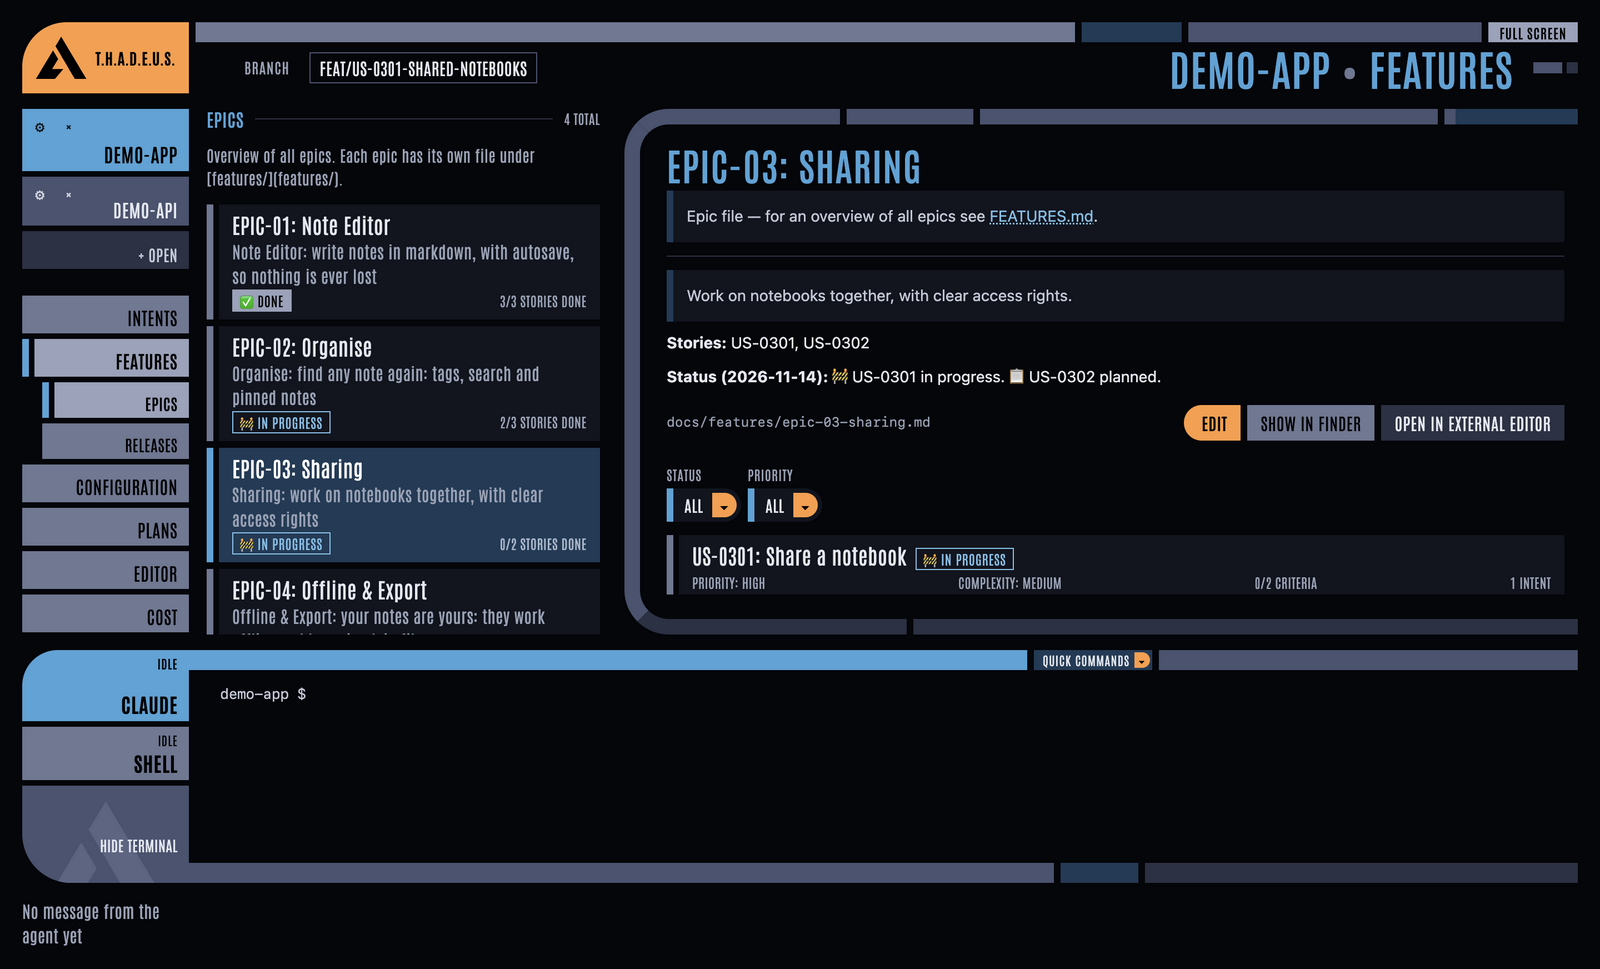
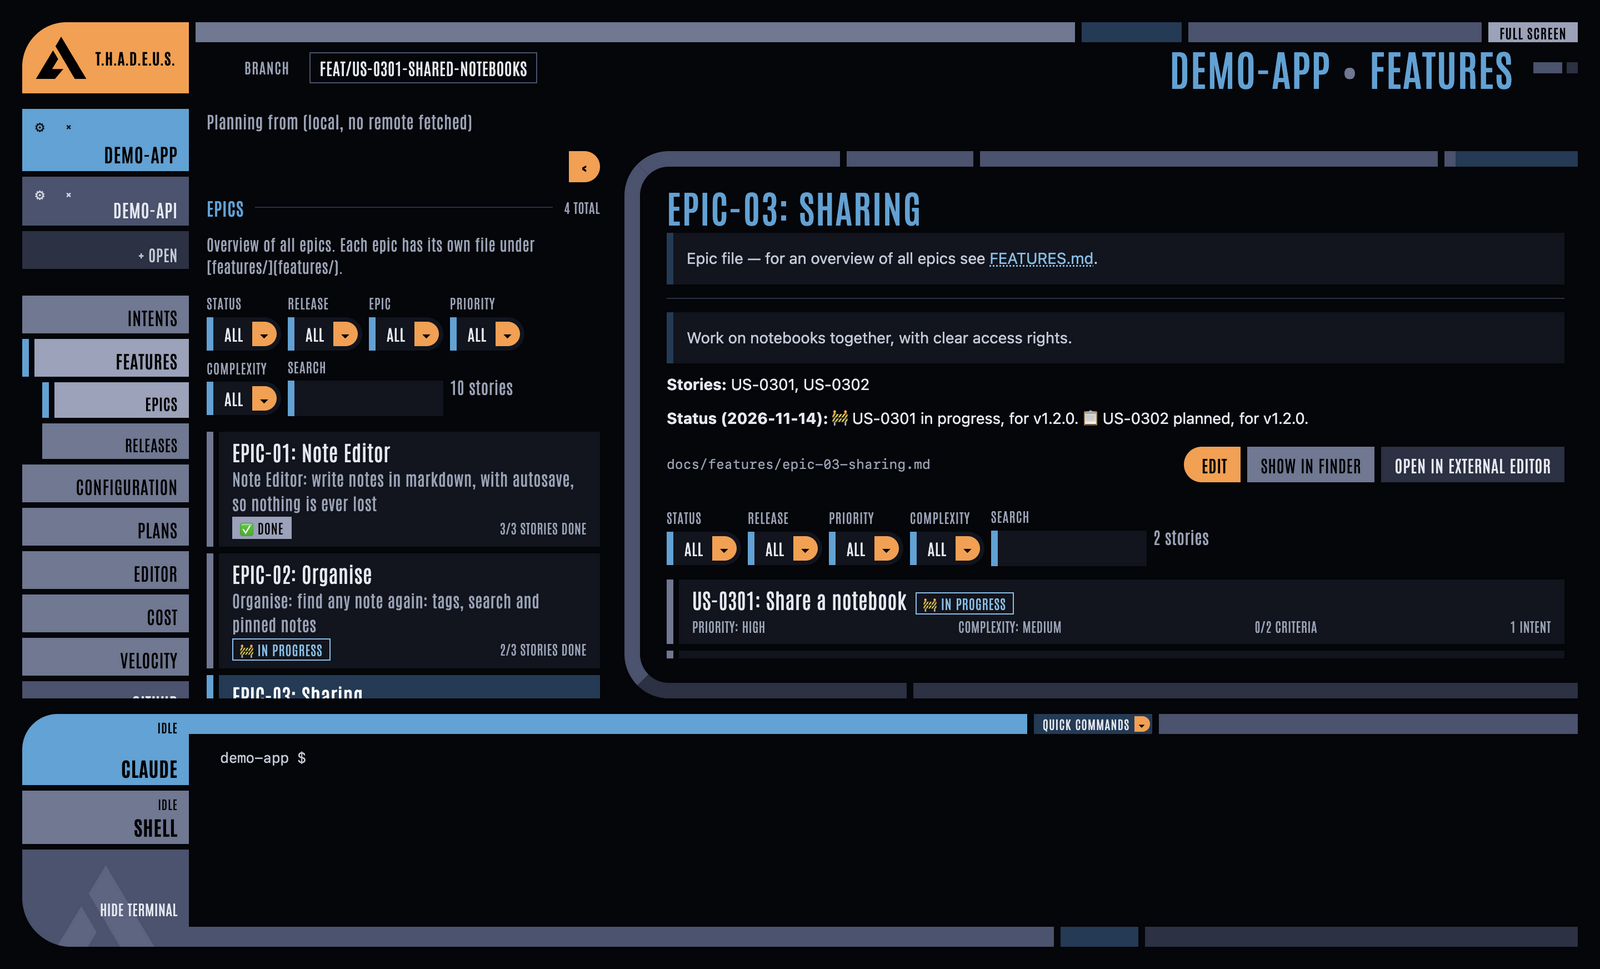
docs(US-1103, US-1102): rewrite the README, new screenshots and an animated GIF (#93)
The README now describes the delivered features by what they give a
developer and a team, walks through the main flows, and lists what is
coming per release. Six new screenshots and an animated GIF of the
demo project, all retaken by `npm run screenshots` (now with a
Releases view and ffmpeg for the GIF).

Changed region(s): [[0.0, 0.0929, 1.0, 0.9907], [0.7188, 0.5263, 0.75, 0.5882]]

diff --git a/README.md b/README.md
@@ -1,5 +1,7 @@
 # T.H.A.D.E.U.S.
 
+![T.H.A.D.E.U.S. at work: an intent's pipeline and timeline, the cost panel, the features and releases views, and the configuration](docs/screenshots/demo.gif)
+
 **Transformative Human-AI Development Environment for Ubiquitous Systems**
 
 *AI-driven software development, under human direction.*
@@ -7,8 +9,6 @@
 T.H.A.D.E.U.S. is a desktop bridge console for [AI-DLC](https://github.com/awslabs/aidlc-workflows) projects. It shows what the AI agents are doing as it happens: the work in progress, every stage and decision, cost, and the feature roadmap. An embedded agent terminal lets you steer the work from the same window. It is built by Auctum Solutions AB (repository: `aidlc-dash`).
 
 **[Download the latest release →](https://github.com/tochman/ai-dlc-thadeus/releases/latest)** · [All releases](https://github.com/tochman/ai-dlc-thadeus/releases)
-
-![Project view: intents, pipeline, cost and terminal](docs/screenshots/intents.png)
 
 ## Why I built this
 
@@ -38,28 +38,60 @@ That isn't AI's fault. An AI coding agent is an incredibly capable tool, and lik
 
 ## Features
 
-- **Intents and pipeline:** every piece of AI-DLC work in a project, with its plan, status and stage-by-stage progress. Custom plans are shown by their own name.
-- **Live timeline:** stages, agent dispatches, approval gates, questions and decisions, streamed from the AI-DLC audit log.
-- **Units and artifacts:** the unit/bolt graph, and every stage artifact rendered inline.
-- **Cost:** estimated cost per model, agent and intent, from AI-DLC's usage ledger. These figures are estimates at API prices, not invoices.
-- **Feature docs:** the project's epics and user stories from `docs/FEATURES.md` and `docs/features/`.
-- **Agent terminal:** a terminal for the project's agent harness (Claude Code or opencode, chosen per project) and a shell. It also offers one-click resume and quick commands.
-- **Questions as pop-ups:** when AI-DLC waits for an answer or an approval, you get a pop-up and a system notification.
-- **AI-DLC setup:** set up AI-DLC in a project for any of its six harnesses (Claude Code, opencode, Codex, Kiro, Cursor, GitHub Copilot), or add a harness to an existing project. You see a preview before anything changes.
+### For you, the developer
+
+**Follow the work as it happens**
+- **Intents and pipeline:** every piece of AI-DLC work in a project, with its plan and where each stage stands, as LCARS cards. Open several projects side by side as tabs.
+- **Timeline:** every stage, agent, approval, question and decision from AI-DLC's audit log, fast even for long histories, live as agents write.
+- **Units and artifacts:** how Construction is split into units and batches, and every document a stage produced, read inside the app.
+- **Fold the list away** to give a wide view, like the unit graph, the whole window.
+
+**Talk to the agents without living in the terminal**
+- **Agent terminal:** Claude Code, opencode, Codex or Kiro, chosen per project, plus a shell. Claude Code and opencode can run side by side. The app finds the agent tools even when your login shell is slow to start.
+- **Questions as dialogs:** when AI-DLC or the coding tool asks something, or wants permission, you answer in a pop-up, with a system notification.
+- **Agent progress:** plain progress lines per running agent ("6 of 27 steps done").
+
+**Steer AI-DLC from the console**
+- **Resume** an intent where it stopped with one click. **Park and unpark** it from its row.
+- **Set up AI-DLC** in a folder, for any of its harnesses, with a preview before anything changes, and update the framework later.
+- **Configuration:** see and change a project's AI-DLC settings, make your own plans, and pick a model and effort per agent.
+- **Editor:** edit project files, docs and code in the app.
+
+**Know what it costs, and spend less**
+- **Cost** per intent, stage, agent and model, live while a workflow runs, with token charts. These are estimates at API prices, not invoices; recorded tokens can be repriced with a current price table.
+- **Spend less:** a cost rule pack on top of AI-DLC, a prompt to compact or start fresh when the context grows, and a stronger model profile only for the intents that need it.
+
+### For your team
+
+- **Shared records:** requirements, designs, decisions and test results live in the repository next to the code. **Refresh from GitHub** brings in what a teammate or another machine pushed, safely, even with local work in progress. Cost counts every machine that worked on an intent.
+- **Feature docs:** the app offers `docs/FEATURES.md` and epic files at setup and shows your epics and user stories with their status. Every agent keeps them current through a rule in AI-DLC's memory.
+- **Release planning:** plan stories into releases, or ship continuously. Planning changes are committed on their own branch, pushed when there is time and never lost. A story branch still shows `main`'s releases. The app's own files and hook settings stay in sync with `main`.
+- **Pull requests and reviews:** a panel for GitHub, GitLab and Bitbucket joins pull requests, reviews and comments with AI-DLC's questions and approvals per story, shows who works on what, and warns when a branch is behind `main` or overlaps another open pull request.
+- **Velocity:** metrics per intent, story and project, from the records AI-DLC already keeps.
+
+### Everywhere
+
+- **In-app updates** from the public GitHub releases, on macOS and Linux.
 - **English and Swedish:** the interface language follows the operating system, or you choose it in Settings.
+
+### Screenshots
 
 | | |
 |---|---|
-| ![Timeline from the audit log](docs/screenshots/timeline.png) | ![Cost per model and intent](docs/screenshots/cost.png) |
-| **Timeline:** everything that happened in an intent, live from the audit log | **Cost:** estimated cost per model, agent and intent |
-| ![Features: epics and user stories](docs/screenshots/features.png) | ![Start screen](docs/screenshots/splash.png) |
-| **Features:** the project's epics and stories | **Start screen** |
+| ![An intent's pipeline: stages as LCARS cards, with the intent list beside it](docs/screenshots/intents.png) | ![The timeline: stages, agents, approvals and decisions from the audit log](docs/screenshots/timeline.png) |
+| **Pipeline:** where every stage of an intent stands | **Timeline:** everything that happened, live from the audit log |
+| ![The cost panel: cost per model, agent and stage, with live tokens](docs/screenshots/cost.png) | ![The features view: epics and their user stories with status](docs/screenshots/features.png) |
+| **Cost:** estimated cost per model, agent and intent | **Features:** the project's epics and stories |
+| ![The releases view: planned releases and the stories in each](docs/screenshots/releases.png) | ![Configuration: feature docs, delivery and the other project settings](docs/screenshots/configuration.png) |
+| **Releases:** stories planned per release | **Configuration:** the project's settings and AI-DLC |
+
+The screenshots and the animation show an invented demo project. `npm run screenshots` takes them again from the current app.
 
 ## Prerequisites
 
 - **[AI-DLC](https://github.com/awslabs/aidlc-workflows)** with its `aidlc` command on your login shell's `PATH`. The app reads AI-DLC projects and runs the `aidlc` CLI; it does not install it.
-- **An agent CLI** for the terminal: [Claude Code](https://docs.claude.com/en/docs/claude-code) (`claude`) or [opencode](https://opencode.ai) (`opencode`).
-- **[GitHub CLI](https://cli.github.com)** (`gh`), signed in, for the in-app update check. The rest of the app works without it.
+- **An agent CLI** for the terminal: [Claude Code](https://docs.claude.com/en/docs/claude-code) (`claude`), [opencode](https://opencode.ai) (`opencode`), Codex or Kiro.
+- **[GitHub CLI](https://cli.github.com)** (`gh`), signed in, for Refresh from GitHub and the pull request panel on GitHub. Updates do not need it.
 - **To build from source:** macOS or Linux, Node.js in the version named in [`.nvmrc`](.nvmrc), npm and git.
 
 ## Installation
@@ -69,16 +101,27 @@ Download the build for your platform from the [releases page](https://github.com
 - **macOS** (universal `.dmg`): open the disk image and drag `THADEUS.app` to Applications. The build is unsigned, so the first time, right-click the app and choose **Open**.
 - **Linux** (`.deb`, x64, Ubuntu 22.04 or later): `sudo apt install ./thadeus_<version>_amd64.deb`.
 
-The app expects the tools under [Prerequisites](#prerequisites) to be available in your login shell. It does not install them.
+The app expects the tools under [Prerequisites](#prerequisites) to be available in your login shell. It does not install them. **Settings → Tools** shows which ones it found.
 
 ## Usage
 
-1. Open a project with **+ Open** in the left arm, or **File → Open project…** (`Cmd/Ctrl+O`). Any folder that contains `aidlc/spaces/` works, and so does a folder where you want to set AI-DLC up.
-2. Pick a view in the left arm (Intents, Features), and expand Cost and GitHub as needed.
-3. Use the agent terminal at the bottom to run `/aidlc`, or click **Resume** on an intent.
-4. Choose the project's agent harness under **Project settings → Agent terminal**.
+1. **Open a project** with **+ Open** in the left arm, or **File → Open project…** (`Cmd/Ctrl+O`). Any folder that contains `aidlc/spaces/` works, and so does a folder where you want to set AI-DLC up.
+2. **Set up AI-DLC** if the folder has none: choose the harness, look at the preview, and click **Apply**. The project's harness for the agent terminal is under **Configuration → Agent**.
+3. **Start an intent** by describing what you want in the agent terminal (`/aidlc <what to build>`), or **Resume** one from the Intents view. Follow it in the pipeline and the timeline.
+4. **Answer the agent** in the pop-up when it asks a question or waits for your approval.
+5. **See the cost** under **Cost** in the left arm, per intent, stage, agent and model.
+6. **Plan a release** under **Features → Releases**: create a release and add stories to it. The app commits and pushes the planning for you.
 
 Open projects are restored on the next start. **Full screen:** `Ctrl+Cmd+F` on macOS, `F11` on Linux.
+
+## Coming next
+
+Plans can change; [docs/FEATURES.md](docs/FEATURES.md) and [docs/releases/](docs/releases/) always have the current state.
+
+- **v0.3.0, Spec Kit:** use [Spec Kit](https://github.com/github/spec-kit) instead of AI-DLC in a project. Set it up, switch a project between the two, see its features and their status, run its commands, and keep its constitution and extensions, with cost, questions and agent progress as for AI-DLC.
+- **v0.3.1, steer the work and see what it costs:** rename an intent or change the plan of one that has started; see whether your tools are signed in and sign in from the app; a start-screen health check; cost per story, epic and release, with hints on where to save.
+- **v0.3.2, what the work delivered:** delivery metrics (lead time, release frequency, failure rate, recovery time), quality next to cost, the AI's share of delivered code, insights per person and machine, any harness in the agent terminal, and more motion in the pipeline cards.
+- **Later:** add your own language with a translation file; plans under Configuration beside the AI-DLC settings.
 
 ## Development
 
@@ -100,12 +143,15 @@ The builds also write `build/THIRD_PARTY_LICENSES.txt`, the licences of everythi
 
 ## Testing
 
-The test suite uses [Vitest](https://vitest.dev/) and [Testing Library](https://testing-library.com/), and is split into two projects:
+The test suite uses [Vitest](https://vitest.dev/) and [Testing Library](https://testing-library.com/), and is split into three projects:
 
 - **main** (`tests/main/`) covers the Electron main process (parsers for the AI-DLC records, file access, git, settings, the terminal and the harness setup) in a Node environment.
+- **scripts** covers the timed hook scripts, run after the others.
 - **renderer** (`tests/renderer/`) covers the React components in jsdom, rendered in Swedish so the translations are exercised too.
 
-Both run against small sample AI-DLC projects, audit logs and ledgers in `tests/fixtures/`, never against your real projects.
+End-to-end tests (`tests/e2e/`) drive the built app with Playwright.
+
+The unit tests run against small sample AI-DLC projects, audit logs and ledgers in `tests/fixtures/`, never against your real projects.
 
 ```bash
 npm test                                  # run everything once
@@ -114,14 +160,15 @@ npx vitest run --project main             # only the main-process tests
 npx vitest run tests/renderer/Timeline.test.jsx   # a single file
 ```
 
-Every pull request runs a secret scan (gitleaks), the full suite with an 80% line-coverage floor, ESLint and Prettier in GitHub Actions before the macOS and Linux builds, and a release is only built from a green run. The tests need the Node version in `.nvmrc`; on older versions some of them fail to start.
+Every pull request runs a secret scan (gitleaks), the full suite with an 80% line-coverage floor, ESLint, Prettier and end-to-end tests of the built app (Playwright) in GitHub Actions before the macOS and Linux builds, and a release is only built from a green run. The tests need the Node version in `.nvmrc`; on older versions some of them fail to start.
 
 ## Security
 
 - **File access:** all file access goes through the main process and is limited to the project roots you have opened. Paths with `..`, absolute paths, and symlinks pointing out of the root are refused.
 - **What the app writes:**
-  - The app only writes its own settings: `~/Library/Application Support/aidlc-dash/settings.json` on macOS, `~/.config/aidlc-dash/settings.json` on Linux.
-  - It never edits AI-DLC files directly. Setting up or adding a harness runs the official `aidlc` CLI with fixed arguments and no shell, only after a preview and your explicit **Apply**.
+  - Its own settings: `~/Library/Application Support/aidlc-dash/settings.json` on macOS, `~/.config/aidlc-dash/settings.json` on Linux.
+  - In a project, only what you ask for or turn on: files you save in the editor, the feature docs and release plans, its own files under `.thadeus/`, and its hook entries in the coding tool's settings, shown before they are installed. Planning and `.thadeus/` changes are committed from a separate worktree, so the branch you work on is never touched.
+  - AI-DLC itself is changed through the official `aidlc` CLI, with fixed arguments and no shell, after a preview and your explicit **Apply**. The app edits only a few AI-DLC settings files directly, never the files the AI-DLC engine owns.
 - **Renderer:** the renderer runs sandboxed with `contextIsolation` and without `nodeIntegration`. It reaches only a narrow preload API of named functions.
 - **Artifacts:** Markdown is rendered without raw HTML, so no script in an artifact can run. "Open in editor" is limited to document files (`.md`, `.json`, `.txt`, `.yaml`, `.yml`).
 - **Terminal:** the terminal tabs run with your normal environment and permissions, like a terminal you start yourself.

diff --git a/docs/features/epic-11-open-source.md b/docs/features/epic-11-open-source.md
@@ -8,7 +8,7 @@
 
 **Stories:** US-1101, US-1102, US-1103
 
-**Status (2026-11-20):** ✅ US-1101 released in v0.2.6. 📋 US-1102 and US-1103 planned, for v0.2.13. Each story names its release.
+**Status (2026-11-20):** ✅ US-1101 released in v0.2.6. ✅ US-1102 and US-1103 done, for v0.2.13. Each story names its release.
 
 ---
 
@@ -36,34 +36,34 @@
 
 ---
 
-**US-1102: A visual first impression on GitHub, and topics to be found by** 📋 Planned, for v0.2.13
+**US-1102: A visual first impression on GitHub, and topics to be found by** ✅ Done, for v0.2.13
 - As a **developer who comes across the repository on GitHub**, in order to **see at a glance what the app does and find it by topic**, I would like **a short animated GIF or screenshot gallery at the top of the README, and repository topics**.
 - **Epic:** EPIC-11
 - **Priority:** Low
 - **Complexity:** Low
 - **Background:** Asked for 2026-11-15: "a short animated GIF or screenshot gallery directly at the top of README.md (currently referenced as text captions) and repository topics (electron, ai-agents, developer-tools, aidlc) will significantly help discoverability."
 - **Acceptance Criteria:**
-  - [ ] **Given** the repository page on GitHub, **then** the README opens with a short animated GIF (at most about 15 seconds and 5 MB) of the app at work, above the first heading's text, with alt text.
-  - [ ] The screenshots below it are a gallery of images with short captions, not text-only references.
-  - [ ] The GIF and the screenshots show only the demo project (no private paths, names or costs; US-1101 FR3.3), and `npm run screenshots` can retake them.
+  - [x] **Given** the repository page on GitHub, **then** the README opens with a short animated GIF (at most about 15 seconds and 5 MB) of the app at work, above the first heading's text, with alt text.
+  - [x] The screenshots below it are a gallery of images with short captions, not text-only references.
+  - [x] The GIF and the screenshots show only the demo project (no private paths, names or costs; US-1101 FR3.3), and `npm run screenshots` can retake them.
   - [ ] The repository has the topics `electron`, `ai-agents`, `developer-tools` and `aidlc`, set only on the person's word (`gh repo edit --add-topic …`).
 - **Notes:**
   - **Where.** `README.md`, `docs/screenshots/`, `scripts/screenshots.cjs` (could record frames for the GIF).
 - **Dependencies:** US-1101
 
-**US-1103: A README that shows what the app does today, how to use it, and what is coming** 📋 Planned, for v0.2.13
+**US-1103: A README that shows what the app does today, how to use it, and what is coming** ✅ Done, for v0.2.13
 - As a **developer or team lead who finds the repository**, in order to **understand what the app gives me and my team and how to start**, I would like **the README rewritten from the delivered stories, with new screenshots, feature descriptions, usage and a section on upcoming features**.
 - **Epic:** EPIC-11
 - **Priority:** High
 - **Complexity:** Medium
 - **Background:** Asked for 2026-11-20. The README's features and screenshots (`docs/screenshots/`: intents, timeline, cost, features, splash) date from the early releases. Since then the app has gained, among other things, agent dialogs and the waiting popup, cost rules and model profiles, AI-DLC configuration and custom plans, harness choice, the editor, team collaboration and release planning, and Spec Kit is on the way.
 - **Acceptance Criteria:**
-  - [ ] **Scan first.** Every ✅ delivered story in `docs/FEATURES.md` and the epic files is read, and the features that bring value to a developer or a team are listed, each with the stories it comes from. The list is kept with the story (in its intent or PR) so the choice can be checked.
-  - [ ] **Features.** The README describes those features by the value they bring (what the person or team can now do or see), grouped by topic, for a single developer and for a team, in plain words.
-  - [ ] **Screenshots.** Every screenshot is new, taken from the current app on the demo project (no private paths, names or costs; US-1101 FR3.3), with alt text and a short caption, and `npm run screenshots` can retake them.
-  - [ ] **Usage.** A usage section walks through the main flows: open a project, set up AI-DLC (and choose a harness), start and follow an intent, answer the agent, see the cost, plan a release.
-  - [ ] **Upcoming.** A section lists the planned features by release, taken from `docs/releases/` and the 📋 stories, and links to `docs/FEATURES.md`; it says plans can change.
-  - [ ] Prerequisites, installation, development, testing, security and contributing stay correct for the current version.
-  - [ ] Every link and image path in the README works.
+  - [x] **Scan first.** Every ✅ delivered story in `docs/FEATURES.md` and the epic files is read, and the features that bring value to a developer or a team are listed, each with the stories it comes from. The list is kept with the story (in its intent or PR) so the choice can be checked.
+  - [x] **Features.** The README describes those features by the value they bring (what the person or team can now do or see), grouped by topic, for a single developer and for a team, in plain words.
+  - [x] **Screenshots.** Every screenshot is new, taken from the current app on the demo project (no private paths, names or costs; US-1101 FR3.3), with alt text and a short caption, and `npm run screenshots` can retake them.
+  - [x] **Usage.** A usage section walks through the main flows: open a project, set up AI-DLC (and choose a harness), start and follow an intent, answer the agent, see the cost, plan a release.
+  - [x] **Upcoming.** A section lists the planned features by release, taken from `docs/releases/` and the 📋 stories, and links to `docs/FEATURES.md`; it says plans can change.
+  - [x] Prerequisites, installation, development, testing, security and contributing stay correct for the current version.
+  - [x] Every link and image path in the README works.
 - **Notes:** A documentation story, made directly without an AI-DLC workflow; the screenshot script may need new scenes. US-1102 (also v0.2.13, right after it) adds the animated GIF and the repository topics on top of this.
 - **Dependencies:** US-1101

diff --git a/docs/FEATURES.md b/docs/FEATURES.md
@@ -15,7 +15,7 @@ Overview of all epics. Each epic lives in its own file under [features/](feature
 | [EPIC-08](features/epic-08-harnesses.md) | Harnesses: choose opencode, Codex or Kiro instead of Claude per project, and set them up | ✅ US-0801–US-0803 released (v0.2.1–v0.2.3) · 📋 US-0804 and US-0805 planned, for v0.3.1 · 📋 US-0806 planned, for v0.3.2 |
 | [EPIC-09](features/epic-09-aidlc-configuration.md) | AI-DLC Configuration: see and change a project's AI-DLC settings, custom plans and models per agent, per harness | ✅ US-0901–US-0904 released (v0.2.2–v0.2.4) · 📋 US-0905 planned |
 | [EPIC-10](features/epic-10-editing.md) | Editing: edit project files, docs and code in the app with the Monaco editor | ✅ US-1001 released in v0.2.4 |
-| [EPIC-11](features/epic-11-open-source.md) | Open Source: make the repository public and the app open source | ✅ US-1101 released in v0.2.6 · 📋 US-1102 and US-1103 planned, for v0.2.13 |
+| [EPIC-11](features/epic-11-open-source.md) | Open Source: make the repository public and the app open source | ✅ US-1101 released in v0.2.6 · ✅ US-1102 and US-1103 done, for v0.2.13 |
 | [EPIC-12](features/epic-12-team-collaboration.md) | Team Collaboration: use git and AI-DLC so a team can work in the app together | ✅ US-1201 and US-1202 released in v0.2.8 |
 | [EPIC-13](features/epic-13-insights.md) | Insights: what the AI work cost, what it delivered, and where it was wasted | 📋 US-1301–US-1303 planned, for v0.3.1 · 📋 US-1304–US-1307 planned, for v0.3.2 |
 | [EPIC-14](features/epic-14-spec-kit.md) | Spec Kit: follow and drive Spec Kit projects, as an alternative to AI-DLC (one framework per project) | 📋 US-1401–US-1410 planned, for v0.3.0 |
